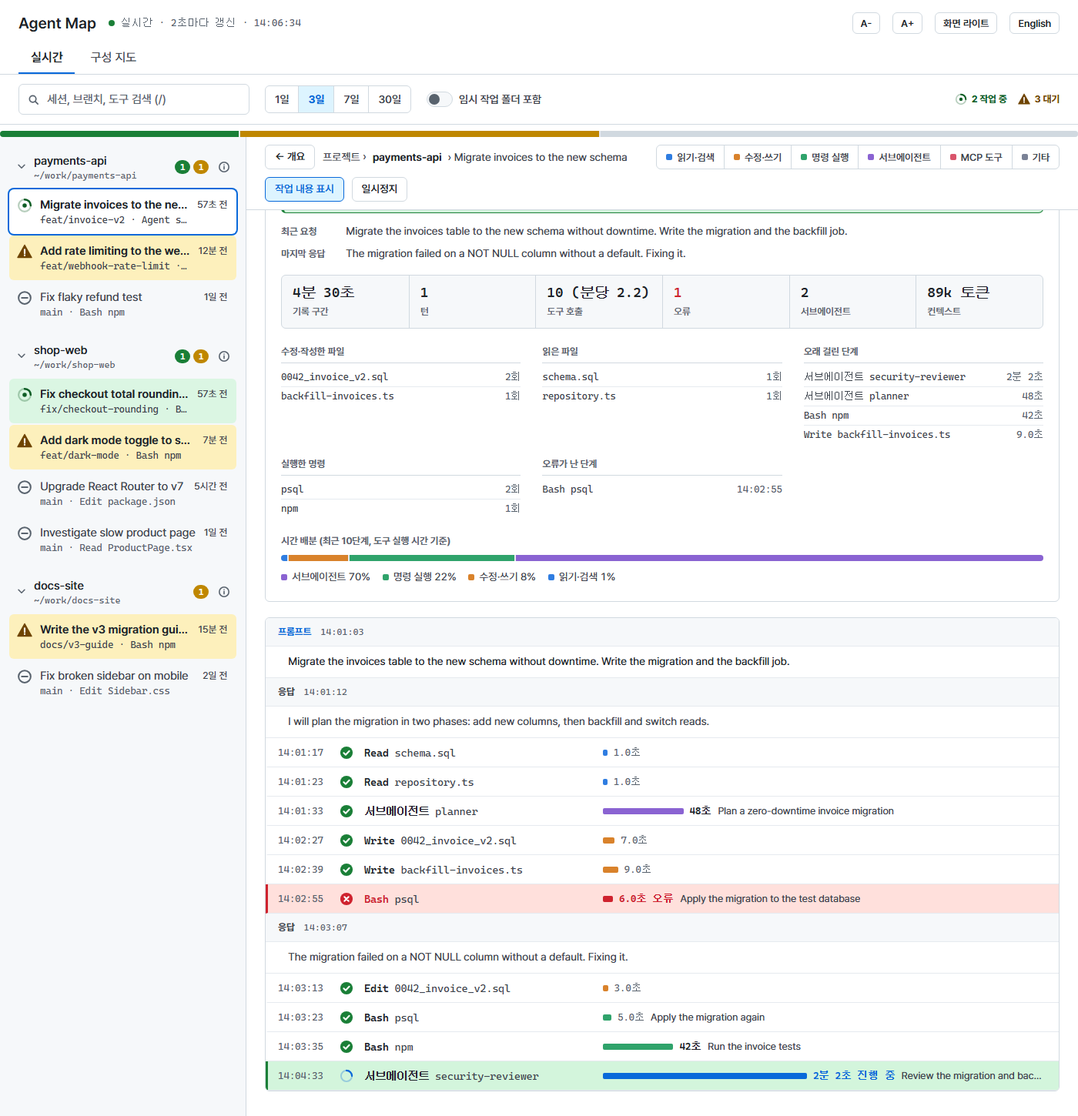
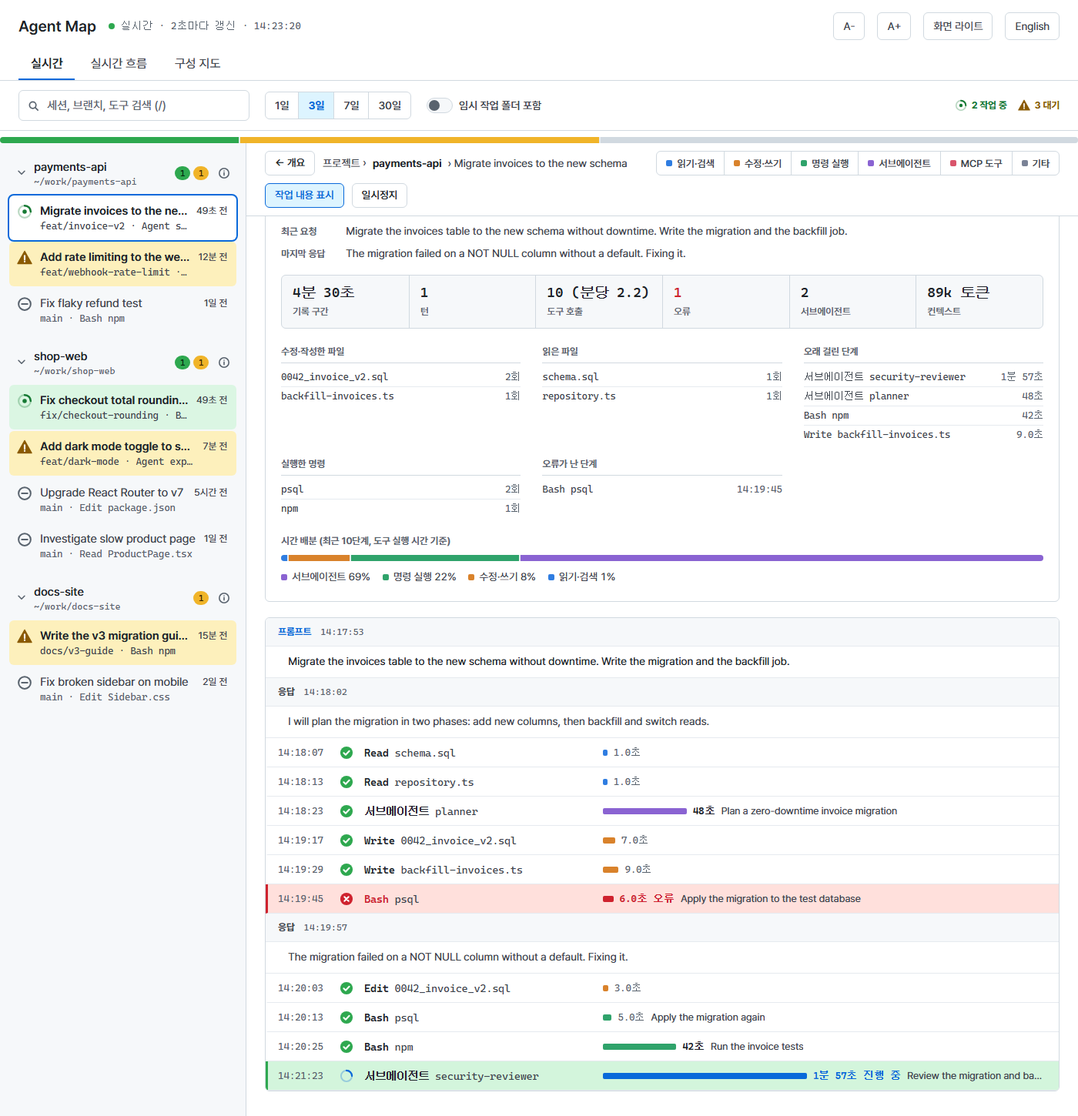
feat: live flow tab with a project/session/subagent map, brighter status colors, matching headers (0.13.0)
- New "Live flow" tab: project clusters, session nodes, subagent nodes on connector lines; filters, include-dormant switch, click to open the session
- Server: sessions carry subs (subagent type + state only, no text), safe for read-only viewers
- Brighter green/yellow for badges, state bar and summary; badge text kept at 4.5:1 or better
- Header of the dashboard and the config map now share the same tokens and tabs (Live | Live flow | Config map)
- Demo data with more subagents, new screenshots and GIFs, README sections

diff --git a/scripts/live.html b/scripts/live.html
@@ -7,17 +7,17 @@
    Original design pass after the unslop skill by Damir Sokolovsky (@heydamir), CC BY 4.0. */
 :root{--canvas:#e6e9ed;--side:#e6e9ed;--surface:#f4f5f7;--subtle:#eaedf0;--line:#bcc5cf;--line2:#d5dce3;
 --fg:#171d23;--sub:#36404b;--mut:#52606d;--accent:#0a5bc4;--onaccent:#fff;--sel:#d3e4fb;--hover:rgba(23,29,35,.06);
---run:#11622a;--run-bg:#c7ecd2;--run-bar:#1a8a39;--wait:#744b00;--wait-bg:#fae09a;--wait-bar:#c78600;--err:#b3261e;--err-bg:#fbd3cf;--dorm:#52606d;--onicon:#fff;
+--run:#177a35;--run-bg:#c7ecd2;--run-bar:#2ea84f;--wait:#8a5a00;--wait-bg:#fae09a;--wait-bar:#f0b429;--err:#b3261e;--err-bg:#fbd3cf;--dorm:#52606d;--onicon:#fff;
 --r:6px;--ease:cubic-bezier(.22,1,.36,1);
 --sans:"Pretendard","Geist",system-ui,"Segoe UI","Malgun Gothic","Apple SD Gothic Neo",sans-serif;
 --mono:"Geist Mono","JetBrains Mono","Cascadia Mono",ui-monospace,Consolas,monospace;
 --c-read:#2f7de1;--c-write:#d9822b;--c-bash:#2fa36b;--c-agent:#8a63d2;--c-mcp:#d9546b;--c-other:#7a8296}
 html[data-theme="light"]{--canvas:#ffffff;--side:#f6f8fa;--surface:#ffffff;--subtle:#f6f8fa;--line:#d1d9e0;--line2:#e6eaef;
 --fg:#1f2328;--sub:#3d444d;--mut:#59636e;--accent:#0969da;--sel:#ddf4ff;--hover:rgba(31,35,40,.05);
---run:#0f5e26;--run-bg:#d3f5dc;--run-bar:#1a7f37;--wait:#6f4400;--wait-bg:#ffeeaa;--wait-bar:#bf8700;--err:#cf222e;--err-bg:#ffe0dc;--dorm:#59636e}
+--run:#177a35;--run-bg:#d3f5dc;--run-bar:#2ea84f;--wait:#8a5a00;--wait-bg:#ffeeaa;--wait-bar:#f0b429;--err:#cf222e;--err-bg:#ffe0dc;--dorm:#59636e}
 html[data-theme="dark"]{--canvas:#0d1117;--side:#0d1117;--surface:#151b23;--subtle:#1b222c;--line:#30363d;--line2:#242b34;
 --fg:#e6edf3;--sub:#b6c0cb;--mut:#8b95a1;--accent:#4493f8;--onaccent:#0d1117;--sel:#14304f;--hover:rgba(230,237,243,.06);
---run:#3fb950;--run-bg:rgba(63,185,80,.14);--run-bar:#3fb950;--wait:#e3b341;--wait-bg:rgba(227,179,65,.15);--wait-bar:#e3b341;--err:#ff7b72;--err-bg:rgba(255,123,114,.14);--dorm:#8b95a1;--onicon:#0d1117}
+--run:#3fb950;--run-bg:rgba(63,185,80,.14);--run-bar:#3fb950;--wait:#e3b341;--wait-bg:rgba(227,179,65,.15);--wait-bar:#f0b429;--err:#ff7b72;--err-bg:rgba(255,123,114,.14);--dorm:#8b95a1;--onicon:#0d1117}
 *{box-sizing:border-box}html,body{height:100%;margin:0}
 [hidden]{display:none!important}
 body{background:var(--canvas);color:var(--fg);font:400 16px/24px var(--sans);font-variant-numeric:tabular-nums;display:grid;grid-template-rows:auto auto auto minmax(0,1fr);overflow:hidden}
@@ -32,7 +32,8 @@ header{background:var(--surface);border-bottom:1px solid var(--line);padding:16p
 .live{font:400 13px/20px var(--mono);color:var(--mut);display:flex;align-items:center;gap:8px}
 .live i{width:8px;height:8px;border-radius:50%;background:var(--run-bar)}.live.off{color:var(--err)}.live.off i{background:var(--err)}
 .sp{flex:1}
-.top .btn{height:36px;padding:0 12px;font-size:14px}
+header .top .btn{height:36px;padding:0 12px;background:var(--surface);border:1px solid var(--line);border-radius:6px;color:var(--sub);font:400 14px/24px var(--sans);transition:background-color .15s var(--ease),color .15s var(--ease),border-color .15s var(--ease)}
+header .top .btn:hover{background:var(--subtle);color:var(--fg)}
 .tabs{display:flex;gap:4px;margin-top:12px;align-items:flex-end}
 .tab{height:40px;padding:0 16px;border:0;border-bottom:2px solid transparent;background:none;color:var(--sub);font-size:16px;text-decoration:none;display:inline-flex;align-items:center}
 .tab[aria-current="page"]{color:var(--fg);border-bottom-color:var(--accent);font-weight:600}
@@ -66,8 +67,8 @@ input[type=search]:focus{outline:2px solid var(--accent);outline-offset:-1px;bor
 .app{display:grid;grid-template-columns:320px minmax(0,1fr);min-height:0}
 .mainc{display:flex;flex-direction:column;min-height:0}
 .side{display:flex;flex-direction:column;min-height:0;border-right:1px solid var(--line);background:var(--side)}
-.sc{display:inline-flex;gap:4px}.sc i{font:600 11.5px/18px var(--mono);font-style:normal;min-width:20px;text-align:center;padding:0 5px;border-radius:9px;color:#fff}
-.sc i.run{background:var(--run-bar)}.sc i.idle{background:var(--wait-bar)}
+.sc{display:inline-flex;gap:4px}.sc i{font:600 11.5px/18px var(--mono);font-style:normal;min-width:20px;text-align:center;padding:0 5px;border-radius:9px}
+.sc i.run{background:var(--run-bar);color:#052b11}.sc i.idle{background:var(--wait-bar);color:#3a2700}
 .sbody{flex:1;overflow:auto;padding:12px 12px 16px}
 .pm{flex:1;overflow:auto;padding:16px 24px 32px}
 .ovs{display:grid;grid-template-columns:repeat(3,minmax(0,1fr));gap:16px;margin-bottom:16px}
@@ -189,13 +190,32 @@ dialog h2{font:600 18px/26px var(--sans);margin:0 0 8px}
 .dperm[aria-checked="true"] .tx2 b{color:var(--err)}
 .df{display:flex;gap:8px;justify-content:flex-end}
 #toast{position:fixed;left:24px;bottom:24px;max-width:min(560px,calc(100% - 48px));background:var(--fg);color:var(--canvas);padding:10px 14px;border-radius:var(--r);font-size:14px;line-height:20px;z-index:10}
-@media (max-width:900px){.app{grid-template-columns:1fr;grid-template-rows:minmax(0,45vh) minmax(0,1fr)}.side{border-right:0;border-bottom:1px solid var(--line)}.kpis{grid-template-columns:repeat(3,minmax(0,1fr))}.kpi:nth-child(4){border-left:0}}
+.mapv{overflow:auto;padding:20px 24px 32px;min-height:0}
+.mbar{display:flex;align-items:center;gap:12px 20px;flex-wrap:wrap;margin-bottom:20px}.msum{margin-left:auto;color:var(--sub);font-size:14px}
+.mgrid{display:grid;grid-template-columns:repeat(auto-fill,minmax(380px,1fr));gap:20px;align-items:start}
+.mbox{border:1px solid var(--line);border-radius:12px;background:var(--surface);padding:16px}
+.mtag{display:flex;align-items:center;gap:6px 12px;flex-wrap:wrap;margin-bottom:14px}.mtag b{font:600 16px/24px var(--sans)}.mtag .path{flex:1;min-width:0}
+.mnodes{display:flex;flex-direction:column;gap:12px}
+.mnode{border:1px solid var(--line);border-radius:8px;background:var(--canvas)}
+.mnode.running{background:color-mix(in srgb,var(--run-bg) 78%,var(--surface));border-color:var(--run-bar)}
+.mnode.idle{background:color-mix(in srgb,var(--wait-bg) 78%,var(--surface));border-color:var(--wait-bar)}
+.mnode.dormant{opacity:.8}
+.mcard{display:grid;grid-template-columns:20px minmax(0,1fr) auto;gap:0 10px;align-items:start;width:100%;padding:12px 14px;border:0;border-radius:8px;background:none;text-align:left;cursor:pointer;color:inherit}
+.mcard:hover{background:rgba(127,135,150,.12)}.mcard .ic{margin-top:2px}
+.mcard .rt{white-space:normal;display:-webkit-box;-webkit-line-clamp:2;-webkit-box-orient:vertical}
+.msubs{position:relative;margin:0 14px 12px 32px;padding-left:20px}
+.msubs::before{content:"";position:absolute;left:0;top:-4px;bottom:16px;border-left:2px solid var(--line)}
+.msub{position:relative;display:flex;align-items:center;gap:8px;padding:6px 10px;margin-top:8px;background:var(--surface);border:1px solid var(--line);border-radius:6px;font:400 13px/20px var(--mono);color:var(--sub)}
+.msub::before{content:"";position:absolute;left:-20px;top:50%;width:20px;border-top:2px solid var(--line)}
+.msub.run{border-color:var(--accent);background:var(--sel);color:var(--fg);font-weight:700}
+.msub.err{border-color:var(--err);color:var(--err)}
+@media (max-width:900px){.mgrid{grid-template-columns:1fr}.app{grid-template-columns:1fr;grid-template-rows:minmax(0,45vh) minmax(0,1fr)}.side{border-right:0;border-bottom:1px solid var(--line)}.kpis{grid-template-columns:repeat(3,minmax(0,1fr))}.kpi:nth-child(4){border-left:0}}
 @media (prefers-reduced-motion:reduce){*{transition:none!important}}
 </style></head><body>
 <header>
  <div class="top"><h1 class="brand">Agent Map</h1><span class="live" id="live"><i></i><span id="lt">연결 중</span></span><span class="sp"></span>
-  <button class="btn sm" id="zo" aria-label="글자 작게" title="글자 작게">A-</button><button class="btn sm" id="zi" aria-label="글자 크게" title="글자 크게">A+</button><button class="btn sm" id="th" title="화면 모드 바꾸기"></button><button class="btn sm" id="lg"></button></div>
- <nav class="tabs" aria-label="보기"><span class="tab" aria-current="page">실시간</span><a class="tab" id="cfgtab" href="/map">구성 지도</a></nav>
+  <button class="btn" id="zo" aria-label="글자 작게" title="글자 작게">A-</button><button class="btn" id="zi" aria-label="글자 크게" title="글자 크게">A+</button><button class="btn" id="th" title="화면 모드 바꾸기"></button><button class="btn" id="lg"></button></div>
+ <nav class="tabs" aria-label="보기"><a class="tab" id="tabLive" href="#p" aria-current="page">실시간</a><a class="tab" id="tabMap" href="#m">실시간 흐름</a><a class="tab" id="cfgtab" href="/map">구성 지도</a></nav>
 </header>
 <div class="tb" role="search">
  <div class="sch"><svg viewBox="0 0 16 16" fill="none" stroke="currentColor" stroke-width="1.8" stroke-linecap="round" aria-hidden="true"><circle cx="7" cy="7" r="4.5"/><path d="m10.5 10.5 3.5 3.5"/></svg><input type="search" id="q" placeholder="세션, 브랜치, 도구 검색 (/)" aria-label="세션 검색"></div>
@@ -205,7 +225,7 @@ dialog h2{font:600 18px/26px var(--sans);margin:0 0 8px}
  <div class="sbsum" id="sbsum"></div>
 </div>
 <div class="dist" id="dist" aria-hidden="true"></div>
-<div class="app">
+<div class="app" id="app">
  <aside class="side" aria-label="세션"><nav class="sbody" id="sbody" aria-label="세션 목록"></nav></aside>
  <div class="mainc">
   <div class="fbar" id="fbar" hidden>
@@ -217,12 +237,13 @@ dialog h2{font:600 18px/26px var(--sans);margin:0 0 8px}
   <main id="main" tabindex="-1" hidden><div id="fv"></div><div id="newb" hidden><button class="btn" id="newbtn"></button></div></main>
  </div>
 </div>
+<section class="mapv" id="mapv" hidden></section>
 <dialog id="dlg" aria-labelledby="dt"></dialog>
 <div id="toast" role="status" hidden></div>
 <div class="sr" role="status" aria-live="polite" id="sr"></div>
 <script>
 const LANG=(()=>{try{const q=new URLSearchParams(location.search).get('lang');if(q==='ko'||q==='en')return q;const v=localStorage.getItem('agent-map-lang');if(v==='ko'||v==='en')return v}catch{}return /^ko/i.test(navigator.language||'')?'ko':'en'})();
-const EN={"Agent Map 실시간":"Agent Map Live","연결 중":"Connecting","글자 작게":"Smaller text","글자 크게":"Larger text","화면 모드 바꾸기":"Change theme","보기":"View","프로젝트":"Projects","프로젝트 탭에서 세션을 선택하세요":"Pick a session on the Projects tab","실시간 흐름":"Live flow","구성 지도":"Config map","← 목록":"← List","도구 종류 강조":"Highlight tool type","프롬프트와 응답의 첫 줄, 단계 설명을 보여줍니다. 이 컴퓨터에서만 볼 수 있습니다":"Shows the first line of prompts and replies and step descriptions. Visible on this computer only","작업 내용 표시":"Show content","일시정지":"Pause","세션, 브랜치, 도구 검색 (/)":"Search sessions, branches, tools (/)","세션 검색":"Search sessions","상태":"Status","정렬":"Sort","기간":"Period","임시 작업 폴더 포함":"Include temp folders","작업 중":"Working","작업 중 ":"Working ","대기 ":"Waiting ","대기":"Waiting","휴면":"Dormant","Claude가 작업하고 있습니다":"Claude is working","응답을 마치고 내 입력을 기다리는 중입니다":"Finished replying and waiting for your input","30분 넘게 활동이 없습니다":"No activity for over 30 minutes","읽기·검색":"Read/search","수정·쓰기":"Edit/write","명령 실행":"Commands","서브에이전트":"Subagent","MCP 도구":"MCP tools","기타":"Other","방금":"just now","초 전":" s ago","분 전":" min ago","시간 전":" h ago","일 전":" d ago","초":"s","분 ":"m ","전체":"All","전체 프로젝트":"All projects","오류 ":"Errors ",", 오류 ":", errors ","건":"","삭제…":"Delete…"," 삭제":" delete","휴면 세션 정리…":"Clean up dormant sessions…","많이 쓴 도구 (최근 호출 횟수)":"Most used tools (recent calls)","사용한 스킬":"Skills used","세션":"Sessions","조건에 맞는 세션이 없습니다":"No sessions match","검색어, 상태, 기간을 바꾸거나 임시 작업 폴더를 포함해 보세요":"Change the search, status or period, or include temp folders","접기":"Collapse","프로젝트 › ":"Projects › ","서브에이전트 ":"Subagent ","응답이 없으면 권한 승인을 기다리는 중일 수 있습니다. Claude Code 창을 확인해 보세요":"If nothing happens, it may be waiting for a permission approval. Check the Claude Code window","지금: Claude가 다음 단계를 생각하는 중":"Now: Claude is thinking about the next step","최근 요청":"Last request","마지막 응답":"Last reply","기록 구간":"Time span","턴":"Turns","도구 호출":"Tool calls","오류":"Errors","컨텍스트":"Context"," 토큰":" tokens","수정·작성한 파일":"Files edited","회":"x","읽은 파일":"Files read","오래 걸린 단계":"Slowest steps","실행한 명령":"Commands run","사용한 MCP 서버":"MCP servers used","오류가 난 단계":"Steps with errors","불러오는 중":"Loading","브랜치":"Branch","모델":"Model","이 세션 삭제…":"Delete this session…","프로젝트 목록에서 이 세션을 찾을 수 없습니다. 기간을 늘려 보세요":"Session not found in the project list. Try a longer period","시간 배분 (최근 ":"Time split (last ","단계, 도구 실행 시간 기준)":" steps, by tool run time)","작업 흐름":"Flow","프롬프트":"Prompt","응답":"Reply","진행 중":"running","소요 ":"took ","새 단계 ":"New steps ","개 · 최신으로 ↓":" · jump to latest ↓","재개":"Resume","실시간 갱신을 일시정지했습니다":"Live updates paused","실시간 갱신을 재개했습니다":"Live updates resumed","서버에 다시 연결됐습니다":"Reconnected to the server","실시간 · 2초마다 갱신 · ":"Live · refreshes every 2s · ","서버 연결이 끊겼습니다":"Lost connection to the server","연결 끊김. 서버가 종료됐다면 /agent-map:live 를 다시 실행하세요":"Disconnected. If the server stopped, run /agent-map:live again","세션 기록을 찾을 수 없습니다":"Session record not found","폴더 열기":"Open folder","상위 폴더 열기":"Open parent folder"," 폴더 열기":": open folder"," 폴더가 없어 상위 폴더 열기":": folder is gone, open parent","이 폴더는 삭제되어 없습니다. 남아 있는 가장 가까운 상위 폴더를 엽니다":"This folder was deleted. Opens the nearest parent that still exists","원래 폴더가 없어 상위 폴더를 열었습니다: ":"The folder is gone, opened its parent: ","폴더를 열었습니다: ":"Opened folder: ",". 창이 보이지 않으면 작업 표시줄을 확인하세요":". If no window appears, check the taskbar","열지 못했습니다":"Could not open it","경로 복사":"Copy path"," 경로 복사":": copy path","경로를 복사했습니다":"Path copied","복사하지 못했습니다":"Could not copy","폴더가 삭제됨":"Folder deleted","세션 삭제·정리":"Delete / clean up sessions","취소":"Cancel","휴지통 거치지 않고 바로 영구 삭제":"Delete permanently, skip the trash","켜면 되돌릴 수 없습니다. 삭제 전에 버튼을 두 번 누르게 합니다":"Cannot be undone. Asks you to press the button twice","한 번 더 누르면 영구 삭제됩니다":"Press once more to delete permanently","작은 세션 (내용이 거의 없음)":"Small session (almost no content)","작은 세션 선택":"Select small sessions","전체 선택":"Select all","선택 해제":"Clear selection","처리하지 못했습니다":"Could not complete it","휴지통 비우기":"Empty trash","영구 삭제":"Delete permanently","휴지통을 비웠습니다":"Trash emptied","비우지 못했습니다":"Could not empty it","최근 활동순":"Recent first","이름순":"By name","1일":"1 day","3일":"3 days","7일":"7 days","30일":"30 days","소프트":"Soft","라이트":"Light","다크":"Dark","화면 ":"Theme "," · 읽기 전용 접속":" · read-only access","폴더를 찾을 수 없습니다":"Folder not found","읽기 전용 접속입니다":"Read-only access","구성 지도는 이 컴퓨터에서만 볼 수 있습니다":"The config map is only available on this computer","마지막 활동":"Last activity","작업 흐름 보기":"view flow","프로젝트 선택":"Choose project","세션 목록":"Session list","← 개요":"← Overview","프로젝트 정보":"Project info","실시간":"Live"};
+const EN={"Agent Map 실시간":"Agent Map Live","연결 중":"Connecting","글자 작게":"Smaller text","글자 크게":"Larger text","화면 모드 바꾸기":"Change theme","보기":"View","프로젝트":"Projects","프로젝트 탭에서 세션을 선택하세요":"Pick a session on the Projects tab","실시간 흐름":"Live flow","구성 지도":"Config map","← 목록":"← List","도구 종류 강조":"Highlight tool type","프롬프트와 응답의 첫 줄, 단계 설명을 보여줍니다. 이 컴퓨터에서만 볼 수 있습니다":"Shows the first line of prompts and replies and step descriptions. Visible on this computer only","작업 내용 표시":"Show content","일시정지":"Pause","세션, 브랜치, 도구 검색 (/)":"Search sessions, branches, tools (/)","세션 검색":"Search sessions","상태":"Status","정렬":"Sort","기간":"Period","임시 작업 폴더 포함":"Include temp folders","작업 중":"Working","작업 중 ":"Working ","대기 ":"Waiting ","대기":"Waiting","휴면":"Dormant","Claude가 작업하고 있습니다":"Claude is working","응답을 마치고 내 입력을 기다리는 중입니다":"Finished replying and waiting for your input","30분 넘게 활동이 없습니다":"No activity for over 30 minutes","읽기·검색":"Read/search","수정·쓰기":"Edit/write","명령 실행":"Commands","서브에이전트":"Subagent","MCP 도구":"MCP tools","기타":"Other","방금":"just now","초 전":" s ago","분 전":" min ago","시간 전":" h ago","일 전":" d ago","초":"s","분 ":"m ","전체":"All","전체 프로젝트":"All projects","오류 ":"Errors ",", 오류 ":", errors ","건":"","삭제…":"Delete…"," 삭제":" delete","휴면 세션 정리…":"Clean up dormant sessions…","많이 쓴 도구 (최근 호출 횟수)":"Most used tools (recent calls)","사용한 스킬":"Skills used","세션":"Sessions","조건에 맞는 세션이 없습니다":"No sessions match","검색어, 상태, 기간을 바꾸거나 임시 작업 폴더를 포함해 보세요":"Change the search, status or period, or include temp folders","접기":"Collapse","프로젝트 › ":"Projects › ","서브에이전트 ":"Subagent ","응답이 없으면 권한 승인을 기다리는 중일 수 있습니다. Claude Code 창을 확인해 보세요":"If nothing happens, it may be waiting for a permission approval. Check the Claude Code window","지금: Claude가 다음 단계를 생각하는 중":"Now: Claude is thinking about the next step","최근 요청":"Last request","마지막 응답":"Last reply","기록 구간":"Time span","턴":"Turns","도구 호출":"Tool calls","오류":"Errors","컨텍스트":"Context"," 토큰":" tokens","수정·작성한 파일":"Files edited","회":"x","읽은 파일":"Files read","오래 걸린 단계":"Slowest steps","실행한 명령":"Commands run","사용한 MCP 서버":"MCP servers used","오류가 난 단계":"Steps with errors","불러오는 중":"Loading","브랜치":"Branch","모델":"Model","이 세션 삭제…":"Delete this session…","프로젝트 목록에서 이 세션을 찾을 수 없습니다. 기간을 늘려 보세요":"Session not found in the project list. Try a longer period","시간 배분 (최근 ":"Time split (last ","단계, 도구 실행 시간 기준)":" steps, by tool run time)","작업 흐름":"Flow","프롬프트":"Prompt","응답":"Reply","진행 중":"running","소요 ":"took ","새 단계 ":"New steps ","개 · 최신으로 ↓":" · jump to latest ↓","재개":"Resume","실시간 갱신을 일시정지했습니다":"Live updates paused","실시간 갱신을 재개했습니다":"Live updates resumed","서버에 다시 연결됐습니다":"Reconnected to the server","실시간 · 2초마다 갱신 · ":"Live · refreshes every 2s · ","서버 연결이 끊겼습니다":"Lost connection to the server","연결 끊김. 서버가 종료됐다면 /agent-map:live 를 다시 실행하세요":"Disconnected. If the server stopped, run /agent-map:live again","세션 기록을 찾을 수 없습니다":"Session record not found","폴더 열기":"Open folder","상위 폴더 열기":"Open parent folder"," 폴더 열기":": open folder"," 폴더가 없어 상위 폴더 열기":": folder is gone, open parent","이 폴더는 삭제되어 없습니다. 남아 있는 가장 가까운 상위 폴더를 엽니다":"This folder was deleted. Opens the nearest parent that still exists","원래 폴더가 없어 상위 폴더를 열었습니다: ":"The folder is gone, opened its parent: ","폴더를 열었습니다: ":"Opened folder: ",". 창이 보이지 않으면 작업 표시줄을 확인하세요":". If no window appears, check the taskbar","열지 못했습니다":"Could not open it","경로 복사":"Copy path"," 경로 복사":": copy path","경로를 복사했습니다":"Path copied","복사하지 못했습니다":"Could not copy","폴더가 삭제됨":"Folder deleted","세션 삭제·정리":"Delete / clean up sessions","취소":"Cancel","휴지통 거치지 않고 바로 영구 삭제":"Delete permanently, skip the trash","켜면 되돌릴 수 없습니다. 삭제 전에 버튼을 두 번 누르게 합니다":"Cannot be undone. Asks you to press the button twice","한 번 더 누르면 영구 삭제됩니다":"Press once more to delete permanently","작은 세션 (내용이 거의 없음)":"Small session (almost no content)","작은 세션 선택":"Select small sessions","전체 선택":"Select all","선택 해제":"Clear selection","처리하지 못했습니다":"Could not complete it","휴지통 비우기":"Empty trash","영구 삭제":"Delete permanently","휴지통을 비웠습니다":"Trash emptied","비우지 못했습니다":"Could not empty it","최근 활동순":"Recent first","이름순":"By name","1일":"1 day","3일":"3 days","7일":"7 days","30일":"30 days","소프트":"Soft","라이트":"Light","다크":"Dark","화면 ":"Theme "," · 읽기 전용 접속":" · read-only access","폴더를 찾을 수 없습니다":"Folder not found","읽기 전용 접속입니다":"Read-only access","구성 지도는 이 컴퓨터에서만 볼 수 있습니다":"The config map is only available on this computer","마지막 활동":"Last activity","작업 흐름 보기":"view flow","프로젝트 선택":"Choose project","세션 목록":"Session list","← 개요":"← Overview","프로젝트 정보":"Project info","실시간":"Live","휴면 포함":"Include dormant"};
 const tt=s=>LANG==='en'&&EN[s]!==undefined?EN[s]:s;
 const K=(ko,en)=>LANG==='en'?en:ko;
 const $=(t,c,x)=>{const e=document.createElement(t);if(c)e.className=c;if(x!=null)e.textContent=x;return e};
@@ -243,7 +264,7 @@ const shortPath=p=>{p=String(p||'').replace(/\\/g,'/');return p.length>40?p.slic
 const icon=(k,cls)=>{const s=$('span',cls||'ic '+k);s.innerHTML=IC[k];return s};
 const store={get:k=>{try{return localStorage.getItem(k)}catch{return null}},set:(k,v)=>{try{localStorage.setItem(k,v)}catch{}}};
 const el=id=>document.getElementById(id);
-const view={tab:'p',sel:null,proj:null,open:{},status:'all',expanded:new Set(),hl:null,paused:false,txt:store.get('agent-map-txt')!=='0',days:store.get('agent-map-days')||'3',sort:store.get('agent-map-sort')||'act',scr:false};
+const view={tab:'p',sel:null,proj:null,open:{},mf:'all',mdorm:false,status:'all',expanded:new Set(),hl:null,paused:false,txt:store.get('agent-map-txt')!=='0',days:store.get('agent-map-days')||'3',sort:store.get('agent-map-sort')||'act',scr:false};
 let data=null,fdata=null,ok=true,psig='',fsig='',seenT='',newCount=0;
 const ago=ts=>{const s=Math.max(0,(Date.now()-Date.parse(ts))/1000);if(s<10)return tt('방금');if(s<60)return Math.floor(s)+tt('초 전');if(s<3600)return Math.floor(s/60)+tt('분 전');if(s<86400)return Math.floor(s/3600)+tt('시간 전');return Math.floor(s/86400)+tt('일 전')};
 const hms=ts=>{if(!ts)return'';const d=new Date(ts),p=n=>String(n).padStart(2,'0');return p(d.getHours())+':'+p(d.getMinutes())+':'+p(d.getSeconds())};
@@ -258,8 +279,10 @@ function keepFocus(fn){const a=document.activeElement,k=a&&a.dataset&&a.dataset.
 /* ---------- routing: #p, #p/<project>, #f/<project>/<session> ---------- */
 function route(){const h=location.hash.slice(1).split('/');
  if(h[0]==='f'&&h[1]&&h[2]){const n=decodeURIComponent(h[1]),s=decodeURIComponent(h[2]);if(!view.sel||view.sel.sid!==s){view.sel={dir:n,sid:s};fdata=null;fsig='';seenT='';newCount=0}view.tab='f'}
+ else if(h[0]==='m')view.tab='m';
  else{view.tab='p';if(h[0]==='p'&&h[1])view.proj=decodeURIComponent(h[1])}
- el('fbar').hidden=view.tab!=='f';el('pm').hidden=view.tab!=='p';el('main').hidden=view.tab!=='f';el('newb').hidden=true;
+ el('fbar').hidden=view.tab!=='f';el('pm').hidden=view.tab!=='p';el('main').hidden=view.tab!=='f';el('newb').hidden=true;el('app').hidden=view.tab==='m';el('mapv').hidden=view.tab!=='m';
+ for(const [id,on] of [['tabLive',view.tab!=='m'],['tabMap',view.tab==='m']]){const a=el(id);if(on)a.setAttribute('aria-current','page');else a.removeAttribute('aria-current')}
  psig='';fsig='';if(data)drawProjects(true);if(view.tab==='f'){drawFlow();pollFlow()}}
 const openFlow=(p,s)=>{view.sel={dir:p.dir,sid:s.sid,name:p.name,title:s.title};location.hash='f/'+encodeURIComponent(p.dir)+'/'+encodeURIComponent(s.sid)};
 addEventListener('hashchange',route);
@@ -290,7 +313,7 @@ function drawProjects(force){if(!data)return;
  const rows=baseRows();rows.sort((a,b)=>ORD[a.s.status]-ORD[b.s.status]||Date.parse(b.s.lastTs)-Date.parse(a.s.lastTs));
  const sig=JSON.stringify([rows.map(r=>[r.p.dir,r.s.sid,r.s.status,r.s.lastTs,r.s.errs,r.s.last&&r.s.last.name]),view.proj,view.tab,view.sel&&view.sel.sid,view.open,[...view.expanded],data.projects.length,Math.floor(Date.now()/30000)]);
  if(sig===psig&&!force)return;psig=sig;
- keepFocus(()=>{drawSessions(rows);drawOverview(rows)})}
+ keepFocus(()=>{drawSessions(rows);drawOverview(rows);if(view.tab==='m')drawMap(rows)})}
 /* sidebar: projects (with their folder) as collapsible groups, sessions nested under them, like the Claude desktop app */
 function drawSessions(rows){const sb=el('sbody');sb.textContent='';
  const n=(arr,k)=>arr.filter(r=>r.s.status===k).length,sm=el('sbsum');sm.textContent='';
@@ -323,6 +346,35 @@ function drawOverview(rows){const g=el('grid');g.textContent='';
  const sc=cur?rows.filter(r=>r.p.dir===cur.dir):rows,c={running:0,idle:0,dormant:0};for(const r of sc)c[r.s.status]++;
  const o=$('div','ovs');for(const [k,cls] of [['running','run'],['idle','wait'],['dormant','']]){const d=$('div',cls);d.append($('b',0,String(c[k])),$('span',0,ST[k]));o.append(d)}g.append(o);
  const e=$('div','none');e.append($('p',0,K('왼쪽에서 세션을 고르면 작업 흐름을 볼 수 있습니다','Pick a session on the left to see its flow')));g.append(e)}
+
+/* ---------- flow map: project clusters, session nodes, subagent nodes below them ---------- */
+function drawMap(rows){const mv=el('mapv');mv.textContent='';
+ const cnt=k=>rows.filter(r=>r.s.status===k).length;
+ const pool=rows.filter(r=>r.s.status!=='dormant'||view.mdorm),shown=pool.filter(r=>view.mf==='all'||r.s.status===view.mf);
+ const bar=$('div','mbar'),chips=$('div','seg');chips.setAttribute('role','group');
+ for(const [k,l,n] of [['all',tt('전체'),pool.length],['running',tt('작업 중'),pool.filter(r=>r.s.status==='running').length],['idle',tt('대기'),pool.filter(r=>r.s.status==='idle').length]]){const b=$('button',0,l);b.append($('b',0,String(n)));b.setAttribute('aria-pressed',String(view.mf===k));b.onclick=()=>{view.mf=k;psig='';drawProjects(true)};chips.append(b)}
+ const sw=$('button','sw');sw.setAttribute('role','switch');sw.setAttribute('aria-checked',String(view.mdorm));sw.append($('i'),$('span',0,tt('휴면 포함')));sw.onclick=()=>{view.mdorm=!view.mdorm;psig='';drawProjects(true)};
+ bar.append(chips,sw,$('span','msum',K(`세션 ${shown.length} · 작업 중 ${cnt('running')} · 대기 ${cnt('idle')}`,`Sessions ${shown.length} · Working ${cnt('running')} · Waiting ${cnt('idle')}`)));mv.append(bar);
+ if(!shown.length){const e=$('div','none');e.append($('p',0,K('지금 돌고 있거나 입력을 기다리는 세션이 없습니다','No session is working or waiting right now')),$('p',0,K('휴면 포함을 켜면 오래된 세션도 볼 수 있습니다','Turn on Include dormant to see older sessions')));mv.append(e);return}
+ const by=new Map();for(const r of shown){if(!by.has(r.p.dir))by.set(r.p.dir,{p:r.p,arr:[]});by.get(r.p.dir).arr.push(r)}
+ const n=(arr,k)=>arr.filter(r=>r.s.status===k).length;
+ const groups=[...by.values()].sort((a,b)=>n(b.arr,'running')-n(a.arr,'running')||n(b.arr,'idle')-n(a.arr,'idle')||Date.parse(b.p.lastTs)-Date.parse(a.p.lastTs));
+ const grid=$('div','mgrid');
+ for(const {p,arr} of groups){const box=$('section','mbox'),tag=$('div','mtag');
+  const bc=$('span','sc'),run=n(arr,'running'),idl=n(arr,'idle');
+  if(run){const i=$('i','run',String(run));i.title=tt('작업 중 ')+run;bc.append(i)}if(idl){const i=$('i','idle',String(idl));i.title=tt('대기 ')+idl;bc.append(i)}
+  const pa=$('span','path',shortPath(p.cwd||p.dir));pa.title=p.cwd||p.dir;tag.append($('b',0,p.name),pa,bc);box.append(tag);
+  const nodes=$('div','mnodes');
+  for(const r of arr){const s=r.s,node=$('div','mnode '+s.status),b=$('button','mcard'),mid=$('span');
+   const t=$('span','rt',s.title);if(s.errs)t.append($('span','etag',tt('오류 ')+s.errs));
+   mid.append(t,$('span','rmeta',[s.branch&&s.branch!=='HEAD'?s.branch:'',lastText(s.last)].filter(Boolean).join('  ·  ')));
+   b.append(icon(s.status),mid,$('span','rtm',ago(s.lastTs)));b.setAttribute('aria-label',`${s.title}, ${ST[s.status]}, ${tt('작업 흐름 보기')}`);b.onclick=()=>openFlow(p,s);node.append(b);
+   if(s.subs&&s.subs.length){const ul=$('div','msubs');
+    for(const x of s.subs){const c=$('span','msub '+x.s),si=$('span','si '+(x.s==='run'?'run':x.s==='err'?'err':'ok'));si.innerHTML=IC[x.s==='run'?'run2':x.s==='err'?'err':'ok'];c.append(si,$('span',0,x.n||tt('서브에이전트')));ul.append(c)}
+    node.append(ul)}
+   nodes.append(node)}
+  box.append(nodes);grid.append(box)}
+ mv.append(grid)}
 
 /* ---------- flow ---------- */
 function legend(){const lg=el('leg');lg.textContent='';for(const [v,n] of CAT){const b=$('button');const i=$('i');i.style.setProperty('--c',`var(${v})`);b.append(i,document.createTextNode(n));b.setAttribute('aria-pressed',view.hl===v);b.onclick=()=>{view.hl=view.hl===v?null:v;legend();fsig='';drawFlow()};lg.append(b)}}
@@ -483,6 +535,7 @@ let zoom=+(store.get('agent-map-zoom')||1);const setZoom=z=>{zoom=Math.min(1.5,M
 el('zi').onclick=()=>setZoom(zoom+.1);el('zo').onclick=()=>setZoom(zoom-.1);
 let roNote='';fetch('/api/mode').then(r=>r.json()).then(m=>{if(m.readonly){document.body.classList.add('ro');roNote=tt(' · 읽기 전용 접속')}}).catch(()=>{});
 function localize(){document.documentElement.lang='en';const w=document.createTreeWalker(document.body,NodeFilter.SHOW_TEXT);for(let n;n=w.nextNode();){const t=n.nodeValue.trim();if(t&&EN[t])n.nodeValue=n.nodeValue.replace(t,EN[t])}for(const e of document.querySelectorAll('[title],[aria-label],[placeholder]'))for(const a of ['title','aria-label','placeholder']){const v=e.getAttribute(a);if(v&&EN[v])e.setAttribute(a,EN[v])}document.title=EN[document.title]||document.title}
+el('tabLive').onclick=e=>{if(view.tab==='m'&&view.sel){e.preventDefault();location.hash='f/'+encodeURIComponent(view.sel.dir)+'/'+encodeURIComponent(view.sel.sid)}};
 el('lg').textContent=LANG==='en'?'한국어':'English';el('lg').onclick=()=>{store.set('agent-map-lang',LANG==='en'?'ko':'en');location.reload()};
 if(LANG==='en')localize();
 setTheme(th);setZoom(zoom);legend();route();tick();refreshTrash();setInterval(refreshTrash,15000);

diff --git a/scripts/template.html b/scripts/template.html
@@ -4,14 +4,14 @@
 /* Three screens: soft (default, low glare), light, dark. Large type, one accent, 4px grid, radius 4 / 8 / 12.
    Design pass after the unslop skill by Damir Sokolovsky (@heydamir), CC BY 4.0. */
 :root{--side:#e6e9ed;--bg:#e6e9ed;--card:#f4f5f7;--raised:#eaedf0;--line:#bcc5cf;
---fg:#1f2733;--sub:#3d4859;--mut:#535f72;--accent:#0a5bc4;--onaccent:#fff;--sel:#d3e4fb;--shadow:none;
+--fg:#171d23;--sub:#36404b;--mut:#52606d;--accent:#0a5bc4;--onaccent:#fff;--sel:#d3e4fb;--shadow:none;
 --ease:cubic-bezier(.22,1,.36,1);
 --sans:"Pretendard","Geist",system-ui,"Malgun Gothic","Apple SD Gothic Neo",sans-serif;
 --mono:"Geist Mono","JetBrains Mono","Cascadia Mono",ui-monospace,Consolas,monospace}
 html[data-theme="light"]{--side:#f6f8fa;--bg:#ffffff;--card:#ffffff;--raised:#f6f8fa;--line:#d1d9e0;
---fg:#111827;--sub:#434d5e;--mut:#5f6a7d;--accent:#0969da;--sel:#ddf4ff;--shadow:none}
+--fg:#1f2328;--sub:#3d444d;--mut:#59636e;--accent:#0969da;--sel:#ddf4ff;--shadow:none}
 html[data-theme="dark"]{--side:#0d1117;--bg:#0d1117;--card:#151b23;--raised:#1b222c;--line:#30363d;
---fg:#e6e9f0;--sub:#b7bdca;--mut:#8d95a8;--accent:#4493f8;--onaccent:#0d1117;--sel:#14304f;--shadow:none}
+--fg:#e6edf3;--sub:#b6c0cb;--mut:#8b95a1;--accent:#4493f8;--onaccent:#0d1117;--sel:#14304f;--shadow:none}
 *{box-sizing:border-box}html,body{height:100%;margin:0}
 body{background:var(--bg);color:var(--fg);font:400 16px/24px var(--sans);font-variant-numeric:tabular-nums;display:grid;grid-template-rows:auto auto minmax(0,1fr);overflow:hidden}
 button{font:inherit;color:inherit}
@@ -214,7 +214,7 @@ addEventListener('resize',draw);
 { /* same tabs as the live dashboard; the live tab only works when served by the live server */
  const nav=document.getElementById('tabs'),live=/^https?:$/.test(location.protocol),off=tt('실시간 서버에서만 열 수 있습니다 (/agent-map:live)');
  const mk=(label,href,cur,tip)=>{const link=href&&live&&!cur,a=$(link?'a':'span','tab',label);if(link)a.href=href;else if(cur)a.setAttribute('aria-current','page');else{a.setAttribute('aria-disabled','true');a.title=tip}return a};
- nav.append(mk(tt('실시간'),'/',false,off),mk(tt('구성 지도'),'',true))}
+ nav.append(mk(tt('실시간'),'/',false,off),mk(tt('실시간 흐름'),'/#m',false,off),mk(tt('구성 지도'),'',true))}
 function localize(){document.documentElement.lang='en';const w=document.createTreeWalker(document.body,NodeFilter.SHOW_TEXT);for(let n;n=w.nextNode();){const t=n.nodeValue.trim();if(t&&EN[t])n.nodeValue=n.nodeValue.replace(t,EN[t])}for(const e of document.querySelectorAll('[title],[aria-label],[placeholder]'))for(const a of ['title','aria-label','placeholder']){const v=e.getAttribute(a);if(v&&EN[v])e.setAttribute(a,EN[v])}}
 document.getElementById('lg').textContent=LANG==='en'?'한국어':'English';document.getElementById('lg').onclick=()=>{store.set('agent-map-lang',LANG==='en'?'ko':'en');location.reload()};
 if(LANG==='en')localize();

diff --git a/README.md b/README.md
@@ -47,6 +47,8 @@ Update with `/plugin marketplace update agent-map` and `/plugin update agent-map
 
 ## Screens
 
+<img src="docs/images/flow-map.png" alt="Live flow tab: a box per project with session cards and subagent nodes connected below them" width="900">
+
 | Flow of one session | Config map |
 |---|---|
 | <img src="docs/images/live-flow.png" alt="Session flow with durations, an error row and a running subagent"> | <img src="docs/images/config-map.png" alt="Map of skills, agents, commands, hooks and MCP servers"> |
@@ -60,6 +62,7 @@ Dark theme:
 **Live dashboard (`/agent-map:live`)**
 - A sidebar like the Claude desktop app: collapsible project groups with their folder path (so equal names are never confused), sessions nested below. Each session is working, waiting for input, or dormant (no activity for 30 minutes). Click one and its flow opens on the right. Status is shown by icon shape and text, not color alone
 - Error count per session, last tool used, branch, time since last activity
+- **Live flow tab**: a map of what is running right now. One rounded box per project (with its folder), a card per working or waiting session, and the subagents it started hanging below it on connector lines; the running one is highlighted. Filter by working or waiting, include dormant sessions with a switch, click a node to open that session
 - Flow view: one row per step with a duration bar, grouped repeats (`x3`), a "now" banner, KPI strip (span, turns, tool calls, errors, subagents, context tokens), most-edited files, slowest steps, commands, MCP servers
 - Search, 1 to 30 day window, a bar with the share of working, waiting and dormant sessions; the info button of a project opens its folder, tool usage and cleanup
 - English and Korean UI. It follows your browser language; switch with the button in the header
